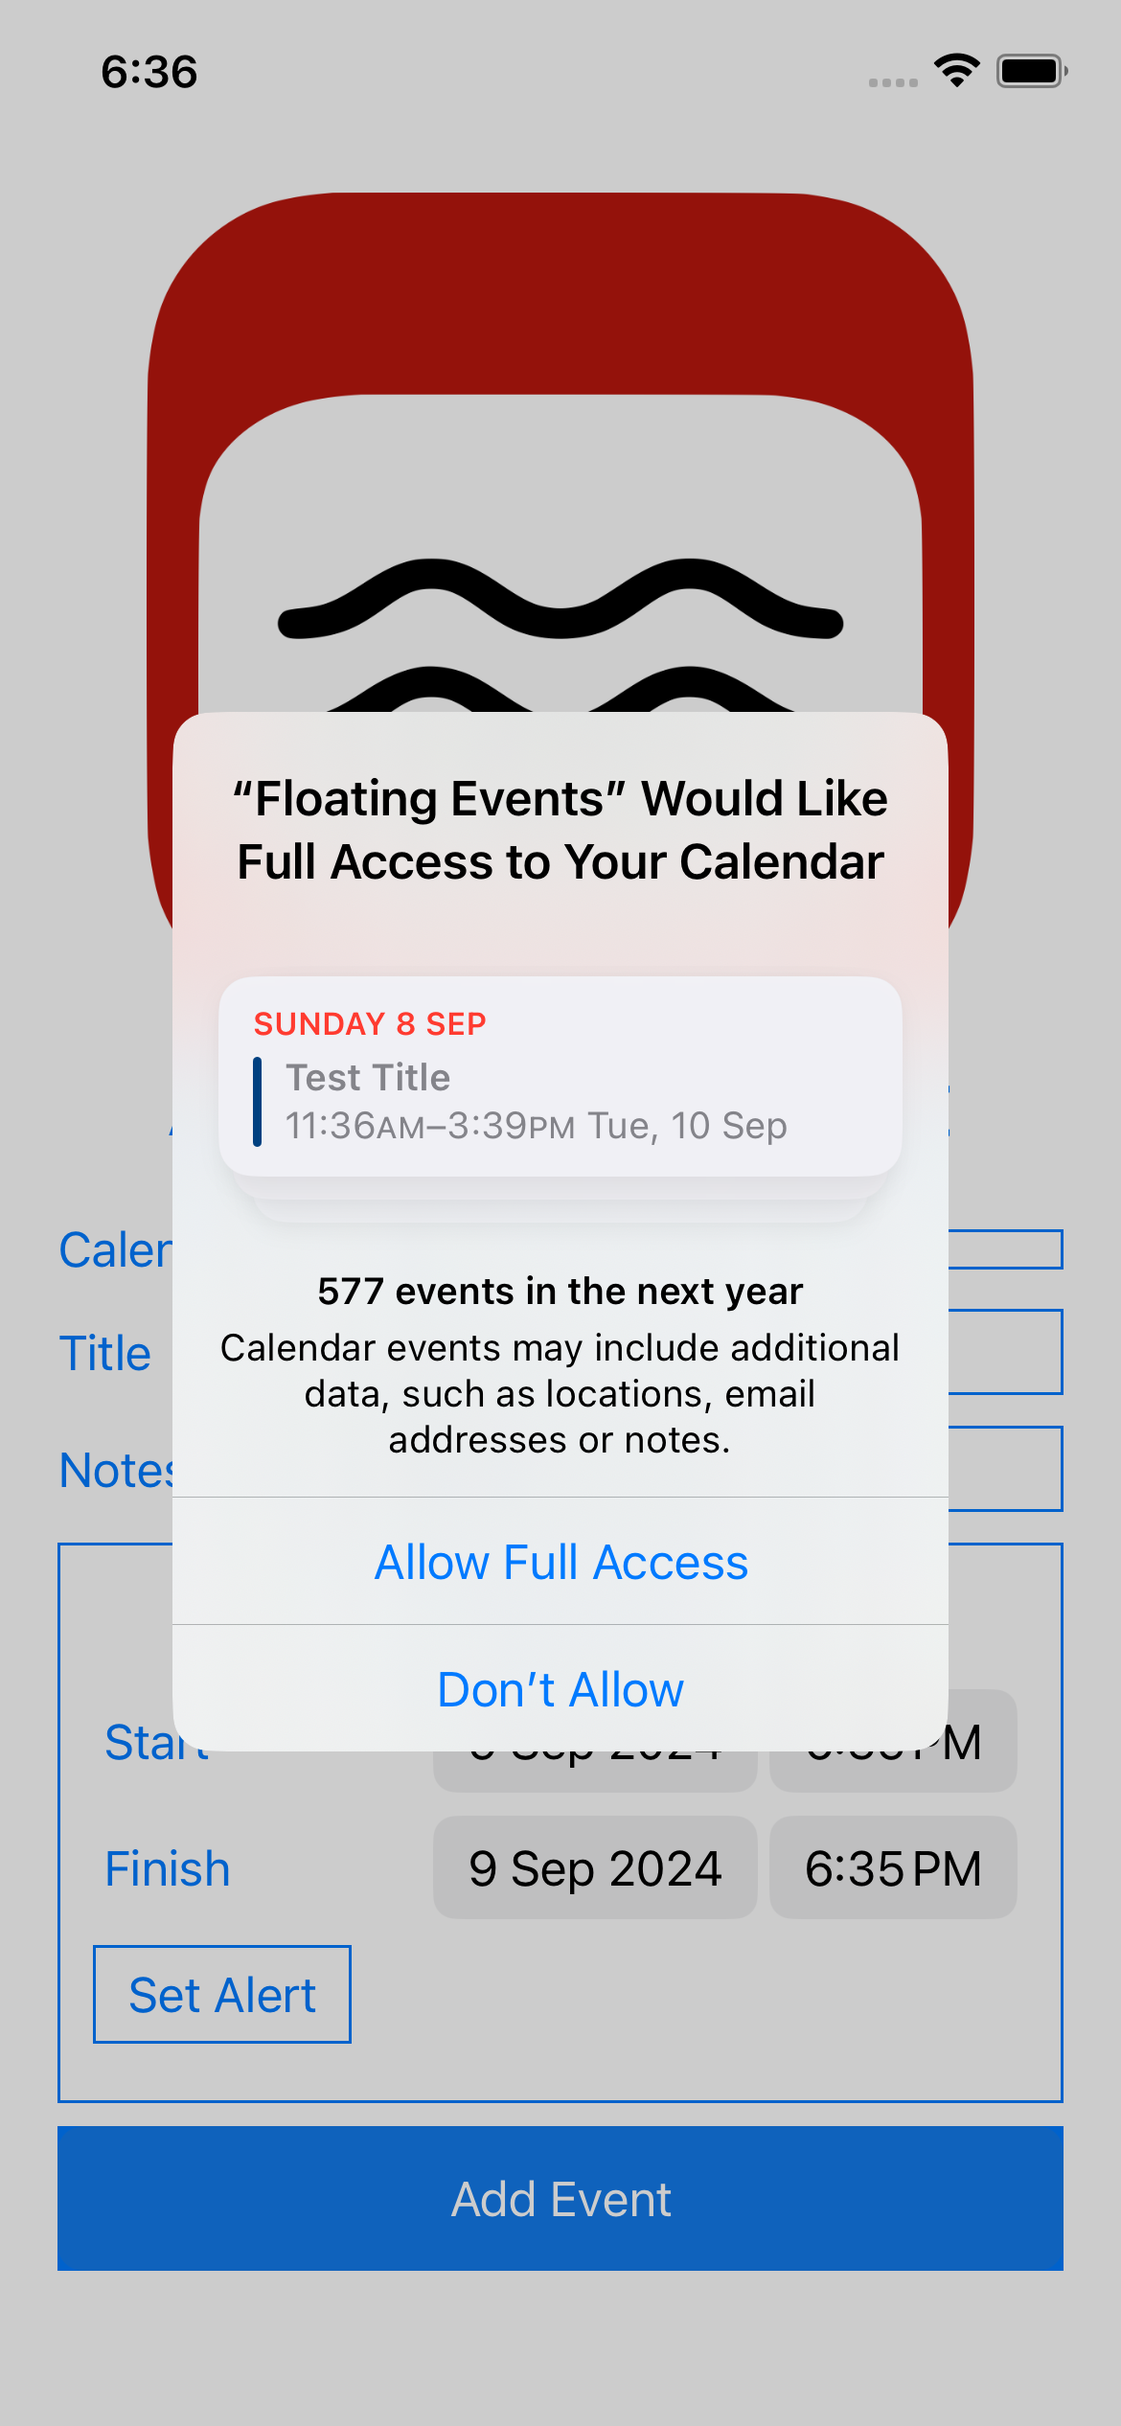
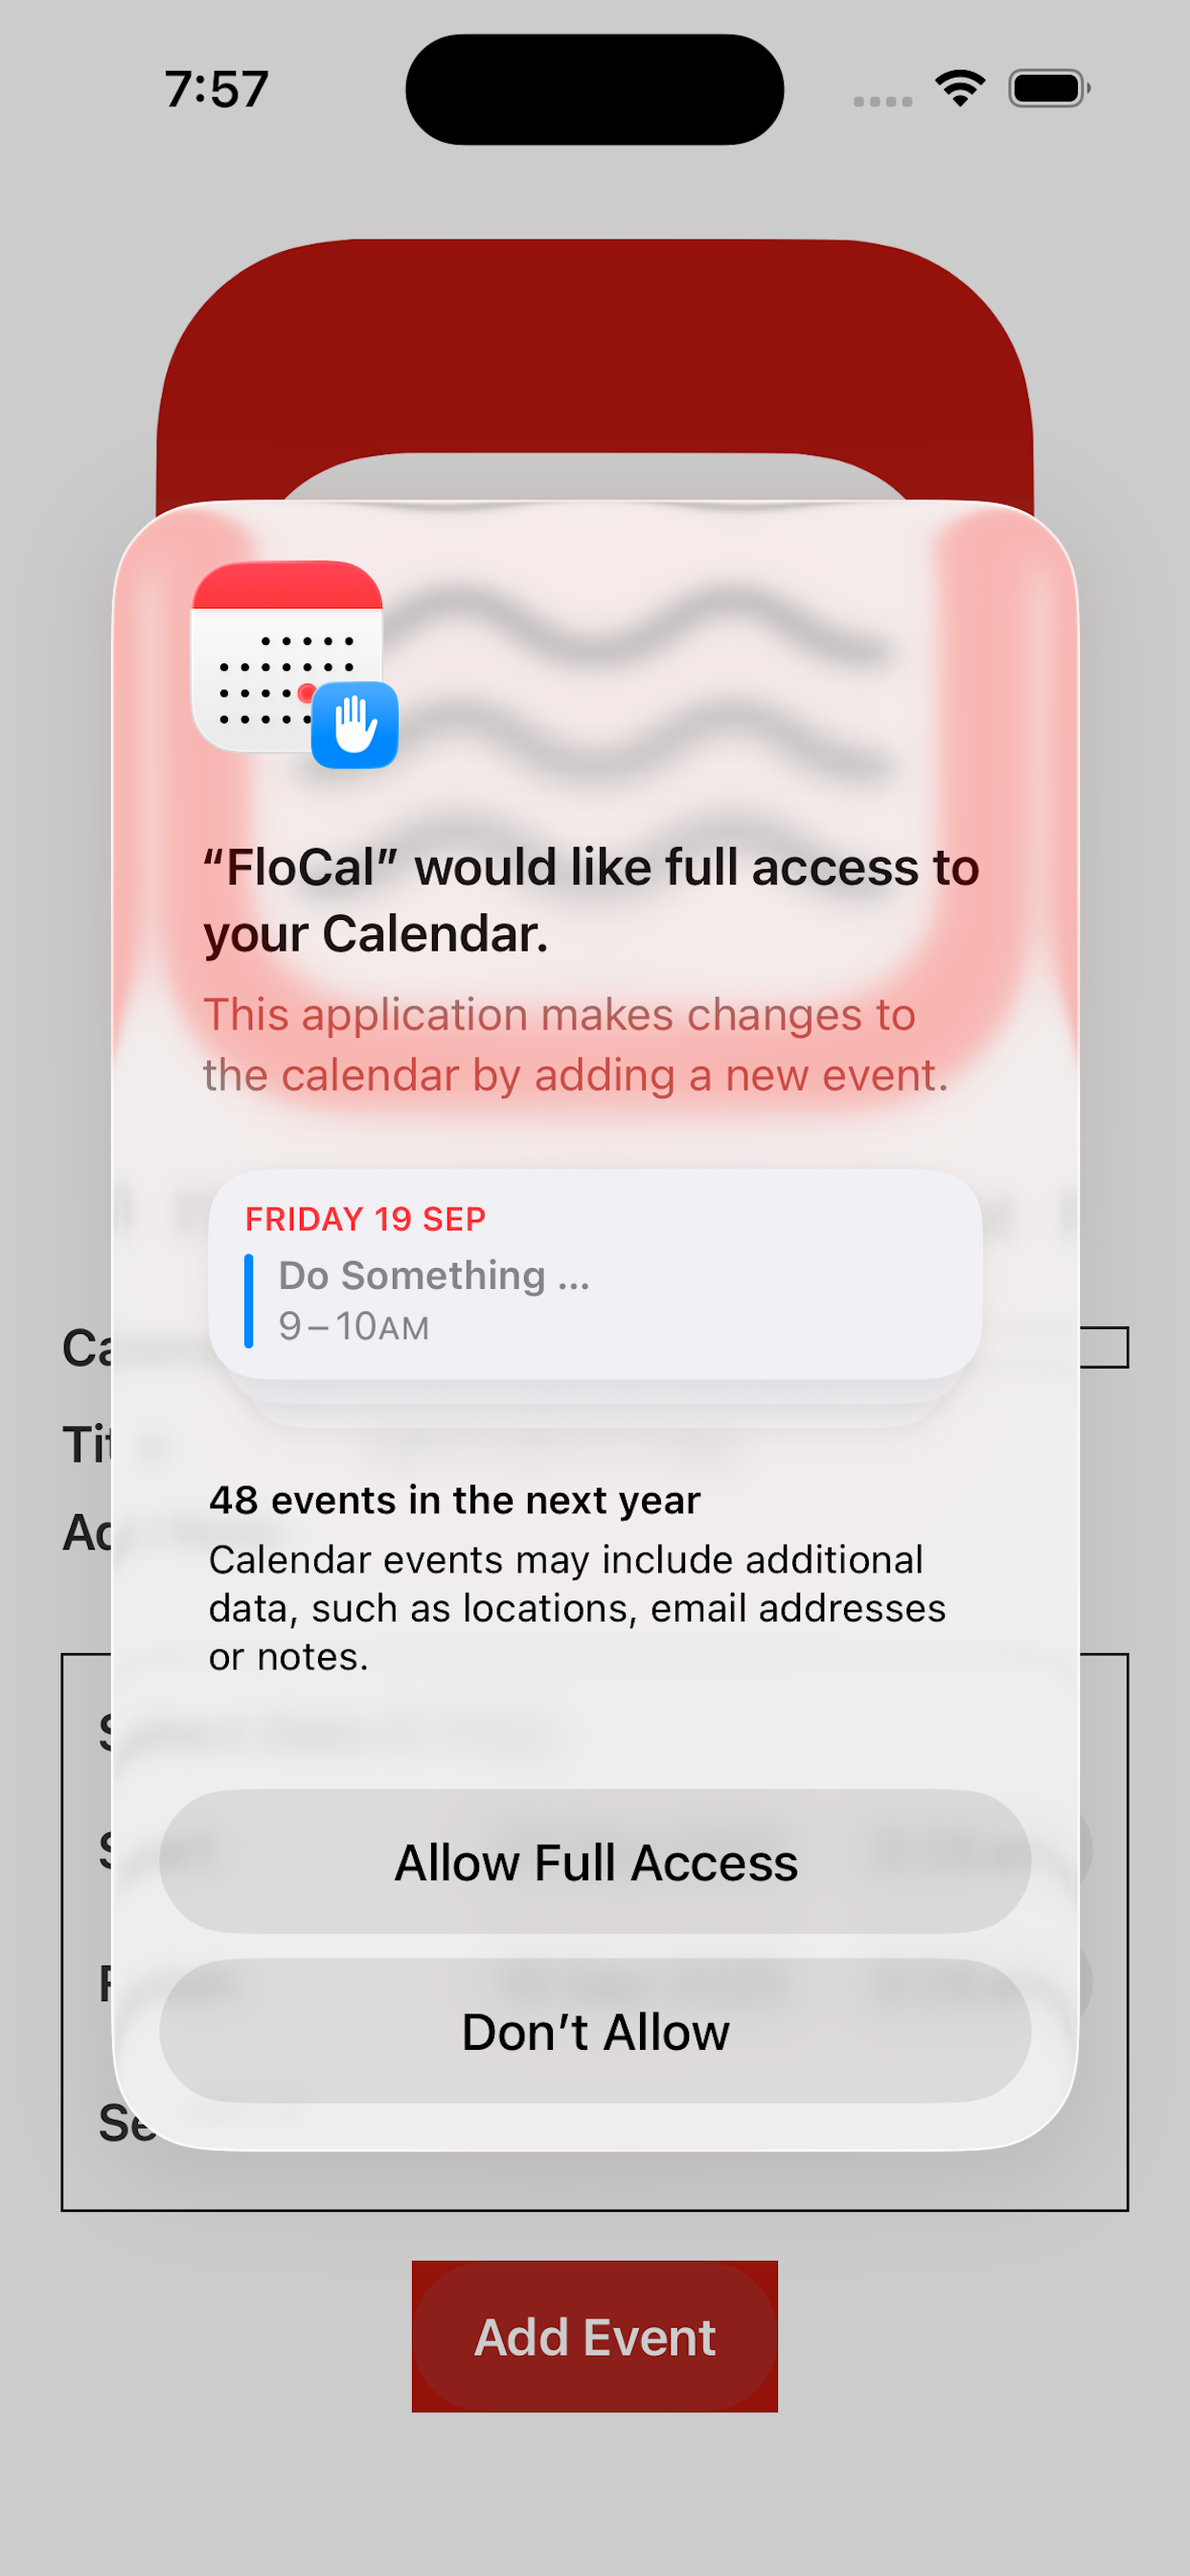
Update to FloCal

diff --git a/README.md b/README.md
@@ -1,31 +1,33 @@
-# Add Floating Event
+# FloCal
 
 <img src="icon.png" width="25%">
 
-Issue Tracker for Add Floating Event iPhone App
+Support for FloCal iPhone App
 
 ##  Background
 
-If you spend time travelling between time zones, then you’ll notice that it’s hard to get the date and time of new calendar events right; in particular it’s get to get the calendar alert right. That’s becuase you might set it in one time zone and the calendar adjusts the time for the other time zone.
+If you spend time travelling between time zones, then you’ll notice that it’s hard to get the date and time of new calendar events right; in particular it’s get to get the calendar alert right. That’s because you might set it in one time zone and the calendar adjusts the time for the other time zone.
 
 The solution is simple: set the time zone to __Floating__ which means no time zone. Any date and time you set will always appear in the local time. The problem is that the iPhone Calendar App, for whatever reason, doesn’t give you the option. You would need to do this in your Mac. Or, you can use this little App.
 
-The __Add Floating Event__ app is there to do one job only: create a new floating event on your phone. The event will be added to the iPhone calendar of your choice.
+The __FloCal__ app is there to do one job only: create a new floating event on your phone. The event will be added to the iPhone calendar of your choice.
 
 ##  How to Use
 
-When you first use __Add Floating Event__, you may be asked for permissions to use the calendar. The App needs to be able to read your available calendars, and, when the time comes, add a calendar event, which is the whole point.
+When you first use __FloCal__, you may be asked for permissions to use the calendar. The App needs to be able to read your available calendars, and, when the time comes, add a calendar event, which is the whole point.
 
 <img src="full-access.png" width="25%">
 
 You’ll then get the main screen. Well, the only screen:
 
-<img src="add-floating-event.png" width="25%">
+<img src="start.png" width="25%">
 
 -  Select a calendar
 -  Select a Start date & time
 -  Select a Finish date and time. This will default to the Start. You won’t be able to set it before the Start.
 -  If you want to set a calendar alert, press the button and select the date and time. You won’t be able set it after the Start.
+
+<img src="add-event.png" width="25%">
 
 You now press the __Add Event__ button.
 
@@ -37,4 +39,4 @@ To create a bug report or feature request, click on the https://github.com/manng
 
 TBH, I don’t think there’s much to be added to this app. It’s there to do one thing only, and that’s to create a floating event on your iPhone.
 
-This App does what it does and doesn’t do what it doesn’t. E & OE. Share & Enjoy. 
+This App does what it does and doesn’t do what it doesn’t. E & OE. Share & Enjoy.
